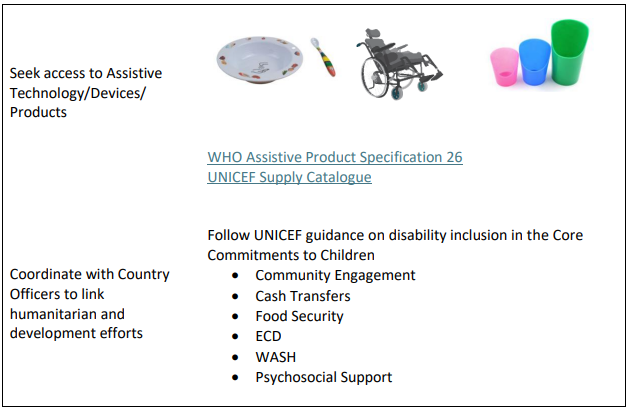
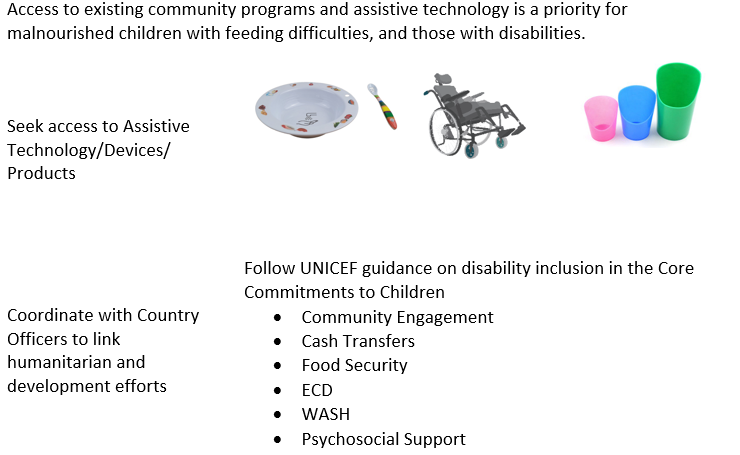
carousel images

diff --git a/index.html b/index.html
@@ -4,7 +4,7 @@
     <meta charset="UTF-8">
     <meta http-equiv="X-UA-Compatible" content="IE=edge">
     <meta name="viewport" content="width=device-width, initial-scale=1.0">
-    <link rel="stylesheet" type="text/css" href="https://cdnjs.cloudflare.com/ajax/libs/c3/0.7.11/c3.min.css" />
+    <!-- <link rel="stylesheet" type="text/css" href="https://cdnjs.cloudflare.com/ajax/libs/c3/0.7.11/c3.min.css" /> -->
     <link href="https://maxcdn.bootstrapcdn.com/bootstrap/4.5.2/css/bootstrap.min.css" rel="stylesheet">
     <script src="https://cdnjs.cloudflare.com/ajax/libs/jquery/3.5.1/jquery.min.js"></script>
     <script src="https://kit.fontawesome.com/39e5643f1a.js"></script>
@@ -60,9 +60,9 @@
             <section class="question" id="0_5_assess_oral_structures">
                 <div class="content-flex header">
                     <i class="fas fa-magnifying-glass"></i>
-                    <p>Assess oral structures</p>
+                    <p>ASSESS Oral Structures 0-5 completed months</p>
                 </div>
-                <p class="notice">Check out the image below!</p>
+                <p class="notice">Check out the images below!</p>
                 <ul>
                     <li><a href="#0_5_assess_nocleft"><div class="item"><h4>No Cleft</h4></div></a></li>
                     <li><a href="#0_5_assess_liquid_nose"><div class="item"><h4>Cleft</h4></div></a></li>
@@ -71,8 +71,27 @@
                     <a href="#0_5_status">◀ Back</a>
                     <a href="#_start">Restart</a>
                 </div>
-                <div class="resource">
-                    <img src="assets/image.png" alt="">
+                <div id="imageSlider_ors" class="carousel slide" data-interval="false">
+                    <!-- Wrapper for slides -->
+                    <div class="carousel-inner">
+                        <div class="carousel-item active"><img src="assets/0_5_asses_1.png" class="d-block w-100" ></div>
+                        <div class="carousel-item"><img src="assets/0_5_asses_2.png" class="d-block w-100" ></div>
+                        <div class="carousel-item"><img src="assets/0_5_asses_3.png" class="d-block w-100" ></div>
+                    </div>
+                    <!-- Left and right controls (Manual) -->
+                    <a class="carousel-control-prev" href="#imageSlider_ors" role="button" data-slide="prev">
+                        <span class="carousel-control-prev-icon" aria-hidden="true"></span>
+                        <span class="sr-only">Previous</span>
+                    </a>
+                    <a class="carousel-control-next" href="#imageSlider_ors" role="button" data-slide="next">
+                        <span class="carousel-control-next-icon" aria-hidden="true"></span>
+                        <span class="sr-only">Next</span>
+                    </a>
+                </div>
+                <div class="links">
+                    <strong >Useful links</strong>
+                    <span><a href="https://iycfimagebank.org/" target="_blank">UNICEF IYCF Image Bank</a></span>
+                    <span><a href="https://www.smiletrain.org/sites/default/files/2021-07/feeding-one-pager-english-1.pdf" target="_blank">Smile train</a></span>
                 </div>
             </section>
             <!-- 0-5 : Potential Risk : No Cleft -->
@@ -117,10 +136,29 @@
                     <a href="#0_5_assess_nocleft">◀ Back</a>
                     <a href="#_start">Restart</a>
                 </div>
-                <div class="resource">
-                    <img src="assets/no_weight_1.png" alt="">
-                    <img src="assets/no_weight_2.png" alt="">
-                    <img src="assets/no_weight_4.png" alt="">
+                <div id="imageSlider_nocleft" class="carousel slide" data-interval="false">
+                    <!-- Wrapper for slides -->
+                    <div class="carousel-inner">
+                        <div class="carousel-item active"><img src="assets/0_5_no_weight_1.png" class="d-block w-100" ></div>
+                        <div class="carousel-item"><img src="assets/0_5_no_weight_2.png" class="d-block w-100" ></div>
+                        <div class="carousel-item"><img src="assets/0_5_no_weight_3.png" class="d-block w-100" ></div>
+                        <div class="carousel-item"><img src="assets/0_5_no_weight_4.png" class="d-block w-100" ></div>
+                    </div>
+                    <!-- Left and right controls (Manual) -->
+                    <a class="carousel-control-prev" href="#imageSlider_nocleft" role="button" data-slide="prev">
+                        <span class="carousel-control-prev-icon" aria-hidden="true"></span>
+                        <span class="sr-only">Previous</span>
+                    </a>
+                    <a class="carousel-control-next" href="#imageSlider_nocleft" role="button" data-slide="next">
+                        <span class="carousel-control-next-icon" aria-hidden="true"></span>
+                        <span class="sr-only">Next</span>
+                    </a>
+                </div>
+                <div class="links">
+                    <strong >Useful links</strong>
+                    <span><a href="https://iycfimagebank.org/" target="_blank">UNICEF IYCF Image Bank</a></span>
+                    <span><a href="https://globalhealthmedia.org/videos/carrying-your-baby-skin-to-skin-persian/" target="_blank">Skin to skin</a></span>
+                    <span><a href="https://wicbreastfeeding.fns.usda.gov/babys-hunger-cues" target="_blank">Signs that an infant is ready to eat</a></span>
                 </div>
             </section>
             <!-- 0-5 : Potential Risk : No Cleft : Liquid comes out of the nose-->
@@ -134,10 +172,30 @@
                     <a href="#0_5_assess_nocleft">◀ Back</a>
                     <a href="#_start">Restart</a>
                 </div>
-                <div class="resource">
-                    <img src="assets/liquid_nose_1.png" alt="">
-                    <img src="assets/liquid_nose_2.png" alt="">
-                    <img src="assets/liquid_nose_3.png" alt="">
+                <div id="imageSlider_liquid_nose" class="carousel slide" data-interval="false">
+                    <!-- Wrapper for slides -->
+                    <div class="carousel-inner">
+                        <div class="carousel-item active"><img src="assets/0_5_liquid_nose_1.png" class="d-block w-100" ></div>
+                        <div class="carousel-item"><img src="assets/0_5_no_weight_2.png" class="d-block w-100" ></div>
+                        <div class="carousel-item"><img src="assets/0_5_liquid_nose_3.png" class="d-block w-100" ></div>
+                        <div class="carousel-item"><img src="assets/0_5_liquid_nose_4.png" class="d-block w-100" ></div>
+                    </div>
+                    <!-- Left and right controls (Manual) -->
+                    <a class="carousel-control-prev" href="#imageSlider_liquid_nose" role="button" data-slide="prev">
+                        <span class="carousel-control-prev-icon" aria-hidden="true"></span>
+                        <span class="sr-only">Previous</span>
+                    </a>
+                    <a class="carousel-control-next" href="#imageSlider_liquid_nose" role="button" data-slide="next">
+                        <span class="carousel-control-next-icon" aria-hidden="true"></span>
+                        <span class="sr-only">Next</span>
+                    </a>
+                </div>
+                <div class="links">
+                    <strong >Useful links</strong>
+                    <span><a href="https://globalhealthmedia.org/videos/carrying-your-baby-skin-to-skin-persian/" target="_blank">Skin to skin</a></span>
+                    <span><a href="https://iycfimagebank.org/" target="_blank">UNICEF IYCF Image Bank</a></span>
+                    <span><a href="https://www.smiletrain.org/sites/default/files/2021-07/feeding-one-pager-english-1.pdf" target="_blank">Smile train</a></span>
+                    <span><a href="https://wicbreastfeeding.fns.usda.gov/babys-hunger-cues" target="_blank">Signs that an infant is ready to eat</a></span>
                 </div>
             </section>
             <!-- 0-5 : Potential Risk : No Cleft : Coughing or Choking-->
@@ -151,8 +209,26 @@
                     <a href="#0_5_assess_nocleft">◀ Back</a>
                     <a href="#_start">Restart</a>
                 </div>
-                <div class="resource">
-                    <img src="assets/coughing_choking.png" alt="">
+                <div id="imageSlider_coughing" class="carousel slide" data-interval="false">
+                    <!-- Wrapper for slides -->
+                    <div class="carousel-inner">
+                        <div class="carousel-item active"><img src="assets/0_5_coughing_1.png" class="d-block w-100" ></div>
+                        <div class="carousel-item"><img src="assets/0_5_coughing_2.png" class="d-block w-100" ></div>
+                    </div>
+                    <!-- Left and right controls (Manual) -->
+                    <a class="carousel-control-prev" href="#imageSlider_coughing" role="button" data-slide="prev">
+                        <span class="carousel-control-prev-icon" aria-hidden="true"></span>
+                        <span class="sr-only">Previous</span>
+                    </a>
+                    <a class="carousel-control-next" href="#imageSlider_coughing" role="button" data-slide="next">
+                        <span class="carousel-control-next-icon" aria-hidden="true"></span>
+                        <span class="sr-only">Next</span>
+                    </a>
+                </div>
+                <div class="links">
+                    <strong >Useful links</strong>
+                    <span><a href="https://iycfimagebank.org/" target="_blank">UNICEF IYCF Image Bank</a></span>
+                    <span><a href="https://www.feedingmatters.org/wp-content/uploads/2023/12/When-to-Refer-Infant.pdf" target="_blank">Feeding matters</a></span>
                 </div>
             </section>
             <!-- 0-5 : Potential Risk : Appraise response to feeding strategies -->
@@ -233,7 +309,7 @@
                     <a href="#_start">Restart</a>
                 </div>
             </section>
-            <!-- 0-5 : Potential Risk : Appraise response to feeding strategies : YES, feeding improved : Go to ASSIGN Next Steps 0 to 5 Completed Months -->
+            <!-- 0-5 : Next Steps 0 to 5 Completed Months -->
             <section class="question" id="0_5_next_steps">
                 <div class="content-flex header">
                     <i class="fas fa-magnifying-glass"></i>
@@ -242,18 +318,30 @@
                 <p class="notice">Access to existing community programs and assistive technology is a priority for
                     malnourished children with feeding difficulties, and those with disabilities.</p>
                 <p class="main-question"></p>
-                <!-- <ul>
-                    <li><a href="#0_5_assess_noconcerns"><div class="item"><h4>No Concerns</h4></div></a></li>
-                    <li><a href="#0_5_assess_noweight"><div class="item"><h4>Not gaining weight</h4></div></a></li>
-                    <li><a href="#0_5_assess_liquid_nose"><div class="item"><h4>Liquid comes out of the nose</h4></div></a></li>
-                    <li><a href="#0_5_assess_coughing"><div class="item"><h4>Coughing or Choking</h4></div></a></li>
-                </ul> -->
+
                 <div class="nav">
                     <a href="#0_5_appraise">◀ Back</a>
                     <a href="#_start">Restart</a>
                 </div>
-                <div class="resource">
-                    <img src="assets/0_5_next_steps.png" alt="">
+                <div id="imageSlider_ns" class="carousel slide" data-interval="false">
+                    <!-- Wrapper for slides -->
+                    <div class="carousel-inner">
+                        <div class="carousel-item active"><img src="assets/0_5_next_steps.png" class="d-block w-100" ></div>
+                    </div>
+                    <!-- Left and right controls (Manual) -->
+                    <a class="carousel-control-prev" href="#imageSlider_ns" role="button" data-slide="prev">
+                        <span class="carousel-control-prev-icon" aria-hidden="true"></span>
+                        <span class="sr-only">Previous</span>
+                    </a>
+                    <a class="carousel-control-next" href="#imageSlider_ns" role="button" data-slide="next">
+                        <span class="carousel-control-next-icon" aria-hidden="true"></span>
+                        <span class="sr-only">Next</span>
+                    </a>
+                </div>
+                <div class="links">
+                    <strong >Useful links</strong>
+                    <span><a href="https://iris.who.int/bitstream/handle/10665/339851/9789240020283-eng.pdf" target="_blank">WHO assistive product specification 26</a></span>
+                    <span><a href="https://supply.unicef.org/" target="_blank">UNICEF supply catalogue</a></span>
                 </div>
             </section>
 
@@ -293,9 +381,27 @@
                     <a href="#6_11_status">◀ Back</a>
                     <a href="#_start">Restart</a>
                 </div>
-                <div class="resource">
-                    <img src="assets/6_11_asses_1.png" alt="">
-                    <img src="assets/6_11_asses_2.png" alt="">
+                <div id="imageSlider_ors_6_11" class="carousel slide" data-interval="false">
+                    <!-- Wrapper for slides -->
+                    <div class="carousel-inner">
+                        <div class="carousel-item active"><img src="assets/0_5_asses_1.png" class="d-block w-100" ></div>
+                        <div class="carousel-item"><img src="assets/0_5_asses_2.png" class="d-block w-100" ></div>
+                        <div class="carousel-item"><img src="assets/0_5_asses_3.png" class="d-block w-100" ></div>
+                    </div>
+                    <!-- Left and right controls (Manual) -->
+                    <a class="carousel-control-prev" href="#imageSlider_ors_6_11" role="button" data-slide="prev">
+                        <span class="carousel-control-prev-icon" aria-hidden="true"></span>
+                        <span class="sr-only">Previous</span>
+                    </a>
+                    <a class="carousel-control-next" href="#imageSlider_ors_6_11" role="button" data-slide="next">
+                        <span class="carousel-control-next-icon" aria-hidden="true"></span>
+                        <span class="sr-only">Next</span>
+                    </a>
+                </div>
+                <div class="links">
+                    <strong >Useful links</strong>
+                    <span><a href="https://iycfimagebank.org/" target="_blank">UNICEF IYCF Image Bank</a></span>
+                    <span><a href="https://www.smiletrain.org/sites/default/files/2021-07/feeding-one-pager-english-1.pdf" target="_blank">Smile train</a></span>
                 </div>
             </section>
             <!-- 6-11 completed months :  Uncomplicated, Severe Malnutrition/Wasting or Moderate Acute Malnutrition:
@@ -346,11 +452,31 @@
                     <a href="#6_11_assess_nocleft">◀ Back</a>
                     <a href="#_start">Restart</a>
                 </div>
-                <div class="resource">
-                    <img src="assets/6_11_no_weight_1.png" alt="">
-                    <img src="assets/6_11_no_weight_2.png" alt="">
-                    <img src="assets/6_11_no_weight_3.png" alt="">
-                    <img src="assets/6_11_no_weight_4.png" alt="">
+                <div id="imageSlider_nocleft_6_11" class="carousel slide" data-interval="false">
+                    <!-- Wrapper for slides -->
+                    <div class="carousel-inner">
+                        <div class="carousel-item active"><img src="assets/6_11_no_weight_1.png" class="d-block w-100" ></div>
+                        <div class="carousel-item"><img src="assets/0_5_no_weight_2.png" class="d-block w-100" ></div>
+                        <div class="carousel-item"><img src="assets/6_11_no_weight_3.png" class="d-block w-100" ></div>
+                        <div class="carousel-item"><img src="assets/6_11_no_weight_4.png" class="d-block w-100" ></div>
+                    </div>
+                    <!-- Left and right controls (Manual) -->
+                    <a class="carousel-control-prev" href="#imageSlider_nocleft_6_11" role="button" data-slide="prev">
+                        <span class="carousel-control-prev-icon" aria-hidden="true"></span>
+                        <span class="sr-only">Previous</span>
+                    </a>
+                    <a class="carousel-control-next" href="#imageSlider_nocleft_6_11" role="button" data-slide="next">
+                        <span class="carousel-control-next-icon" aria-hidden="true"></span>
+                        <span class="sr-only">Next</span>
+                    </a>
+                </div>
+                <div class="links">
+                    <strong >Useful links</strong>
+                    <span><a href="https://iycfimagebank.org/" target="_blank">UNICEF IYCF Image Bank</a></span>
+                    <span><a href="https://globalhealthmedia.org/videos/carrying-your-baby-skin-to-skin-persian/" target="_blank">Skin to skin</a></span>
+                    <span><a href="https://www.unicef.org/media/93981/file/Complementary-Feeding-Guidance-2020.pdf" target="_blank">UNICEF Complementary Feeding Guidance</a></span>
+                    <span><a href="https://www.asha.org/public/developmental-milestones/feeding-and-swallowing-milestones-birth-to-1-year/" target="_blank">Match Food Texture to Skills</a></span>
+                    <span><a href="https://www.ubuntu-hub.org/resources/babyubuntu/" target="_blank">Baby Ubuntu resources</a></span>                    
                 </div>
             </section>      
             <!-- 6-11 completed months :  Uncomplicated, Severe Malnutrition/Wasting or Moderate Acute Malnutrition:
@@ -371,6 +497,7 @@
                     <img src="assets/6_11_liquid_nose_2.png" alt="">
                     <img src="assets/6_11_liquid_nose_3.png" alt="">
                 </div>
+            
             </section> 
             <!-- 6-11 completed months :  Uncomplicated, Severe Malnutrition/Wasting or Moderate Acute Malnutrition:
               No Cleft: Coughing or Choking--> 
@@ -1123,6 +1250,7 @@
             </section>
         </div>
         <div class="footer">
+            <a href="https://www.nutritioncluster.net/" target="_blank"><img src="assets/GNC_logo.png" alt=""></a>
             <a href="https://www.operationsmile.org/" target="_blank"><img src="assets/logo_operation_smile.png" alt=""></a>
             <a href="https://www.clapa.com/" target="_blank"><img src="assets/logo_clapa.png" alt=""></a>
             <a href="https://www.smiletrain.org/" target="_blank"><img src="assets/logo_smiletrain.png" alt=""></a>

diff --git a/css/styles.css b/css/styles.css
@@ -61,7 +61,7 @@ body {
 /* #9CCB38; #BFDBFE80; */
     background-color: lightgray;
     border-radius: 10px;
-    margin-bottom: 55px;
+    margin-bottom: 45px;
 }
 
  .progression p {
@@ -91,7 +91,7 @@ body {
 .notice {
     /* color :  #89824E; */
     text-align: center;
-    margin-bottom: 55px;
+    margin-bottom: 10px;
 }
 
 
@@ -118,6 +118,10 @@ section .header p {
     /* color: #89824E; */
 }
 
+a,
+a:hover {
+    text-decoration: none;  /* Remove underline by default */
+}
 ul {
     margin: 0;
     padding: 8px;
@@ -136,6 +140,11 @@ ul li{
     border-radius: 8px;
     border: 0 solid #e4e4e7;
     outline: none;
+    transition: background-color 0.3s ease, color 0.3s ease;
+}
+
+ul li:hover {
+    background-color: #9CCB38;  /* Change background color on hover */
 }
 
 ul li h4 {
@@ -155,8 +164,37 @@ section {
     justify-content: space-between;
 }
 
-.resource img{
-    width: 550px;
+/* .resource {
+    display: flex;
+}
+.resource .images{
+    flex: 0 0 70%;
+}
+.resource .links {
+    flex:1;
+}
+.resource .images img {
+    width: 100%;
+    object-fit: cover;
+} */
+
+.carousel {
+    margin:15px
+}
+.links {
+    display: flex;
+    flex-direction: column;
+    text-align: left;
+}
+.links  span {
+    font-size: 0.9rem;
+    color: #000;
+}
+.links  span a {
+    color: lightgray;
+}
+.links  span a:hover {
+    color: #000;
 }
 
 .footer {
@@ -166,8 +204,30 @@ section {
 
 .footer img {
     width: 10rem;
+    object-fit: cover;
+    border-radius: 10px;
+    height: auto;
 }
 
 .stop {
     color: red;
+}
+
+.carousel-inner {
+    width: 100%;               /* Ensure carousel takes full width */
+    /* max-height: 300px;           */
+}
+
+.carousel-inner img {
+    object-fit: cover;          /* Ensure the image covers the container without stretching */
+    width: 100%;                /* Make the image take up the full width of the carousel */
+    height: 100%;               /* Ensure it takes the height set by the carousel-inner */
+    border-radius: 10px;        /* Optional: Add rounded corners to images */
+}
+
+.carousel-control-prev-icon,
+.carousel-control-next-icon {
+    background-color: rgba(0, 0, 0, 0.5);  /* Optional: Add semi-transparent background to the control icons */
+    border-radius: 50%;                    /* Make control icons circular */
+    padding: 20px;                         /* Adjust padding for better visibility */
 }
